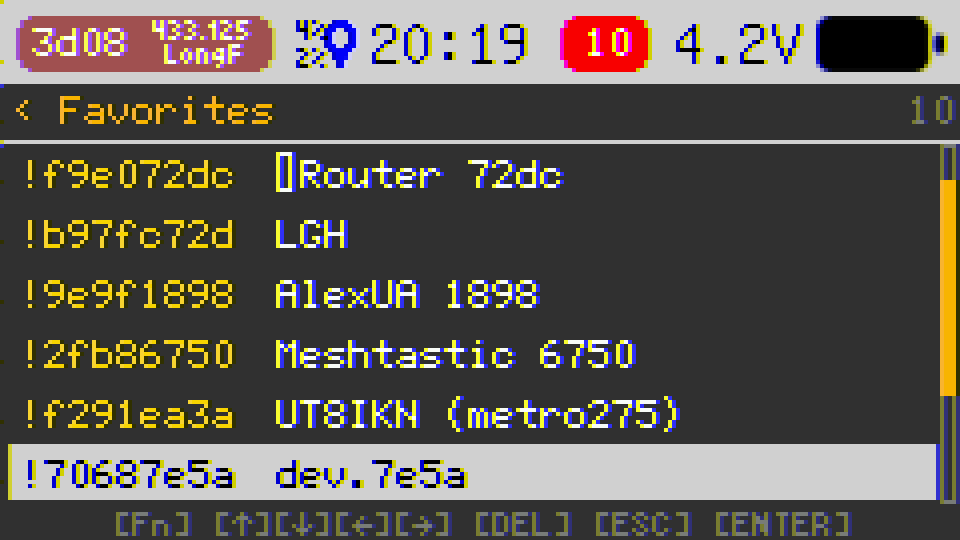
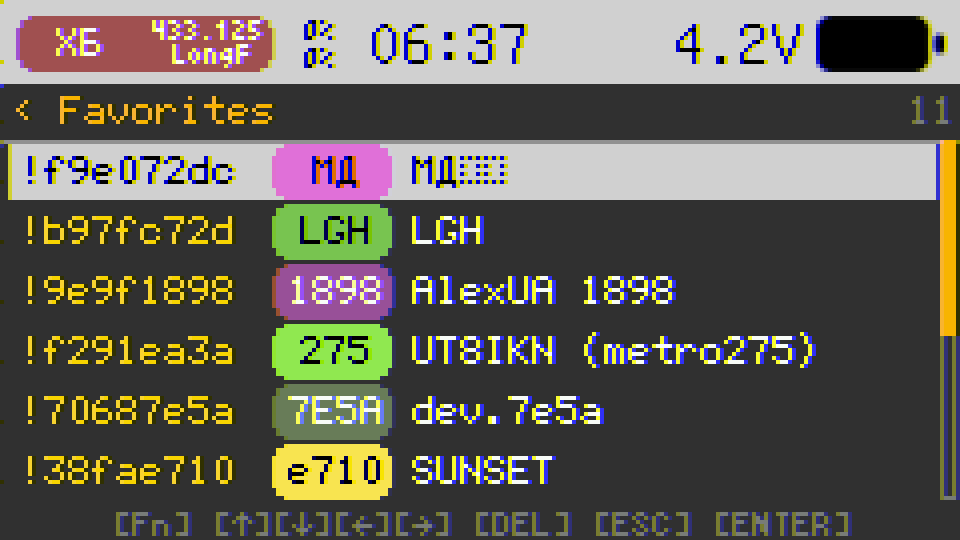
Update README to include neighbors feature details and add neighbors image

diff --git a/README.md b/README.md
@@ -51,6 +51,7 @@ Full node management with up to 1000 nodes persisted on SD card.
 - Ignore nodes — mark nodes as ignored to filter their traffic _hotkey_ [I] to toggle ignored
 - Node detail view with hardware model, position, and metrics _hotkey_ [Fn] + [ENTER] to open
 - Direct Messages _hotkey_ [ENTER] to open
+- Neighbors _hotkey_ [B] — exchange neighbor info with selected node; [Fn] + [B] open neighbors list view
 - Exchange node info _hotkey_ [N] — send node info request to selected node
 - Exchange position _hotkey_ [P] — send position request to selected node
 - Traceroute _hotkey_ [T] to open recent traceroute logs. [Fn] + [T] to start traceroute immediately
@@ -105,6 +106,21 @@ Manage ignored nodes whose traffic is filtered at the mesh layer. Packets from i
 - **Add/remove** — [I] on a node in the main list toggles ignored status (shown in red)
 - Same navigation and shortcuts as favorites — [ENTER] jump to node, [DEL] remove selected, [Fn]+[DEL] clear all
 - Ignored nodes stored in `ignorelist.dat` on SD; survives resets and updates
+
+#### Neighbors
+
+View direct neighbors (0-hop nodes) reported by each node via the `NEIGHBORINFO_APP` packet.
+
+<p align="center">
+  <img src="pics/nodes_neighbors.png" width="480" alt="Node Neighbors List">
+</p>
+
+- **Exchange** — [B] from node list — sends your direct neighbors and requests theirs back
+- **Open list** — [Fn] + [B] from node list — shows cached neighbor data for the selected node
+- **Navigation** — Arrow keys, [PgUp]/[PgDown] for page scroll, [Fn]+[↑] Home / [Fn]+[↓] End
+- **Jump to node** — [ENTER] selects the highlighted neighbor and returns to node list with that node focused
+- **Read-only** — The neighbor list is populated automatically from received `NEIGHBORINFO_APP` packets; no manual editing
+- Each node's neighbor list stored in `neighbors/<node_id>.dat` on SD; cleaned up when the node is deleted
 
 ### Channels
 